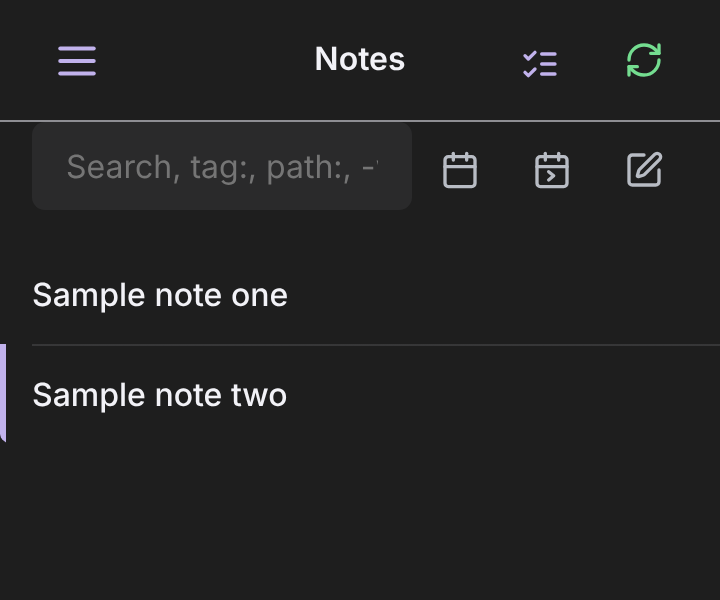
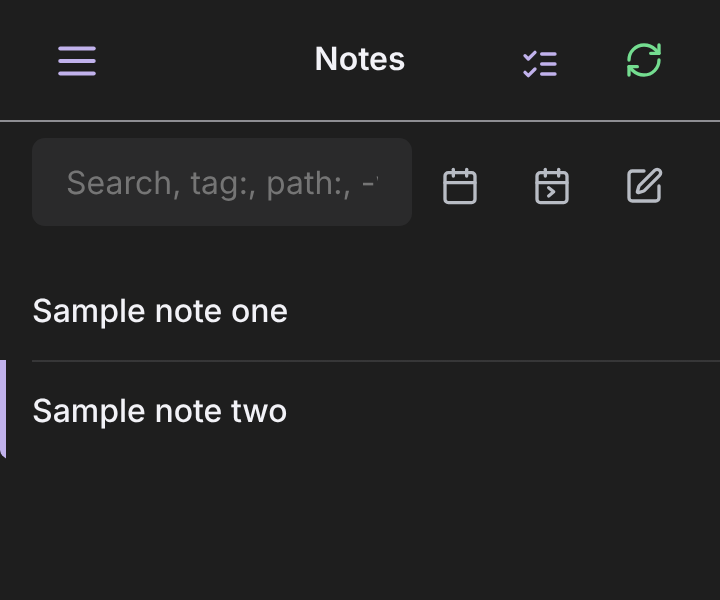
Notes: a gap between the bar and the search row
Claude-Session: https://claude.ai/code/session_01Eq83Hdzu7BtBrywqvfd4uw

diff --git a/app/public/app.css b/app/public/app.css
@@ -153,7 +153,7 @@ footer { margin-top: 2rem; }
 #list-view[data-page]:not([data-page=home]) .bar-end > button:not(#sync-btn) { display: none; }
 
 /* the phone's tools row: the search box shrinks, the buttons keep 44 px touch targets */
-.phone-tools { display: flex; align-items: center; gap: 2px; }
+.phone-tools { display: flex; align-items: center; gap: 2px; padding-top: var(--gap); }
 .phone-tools .ui-search { flex: 1; min-width: 0; }
 .phone-tools > button { flex: none; min-width: var(--tap); min-height: var(--tap); }
 
